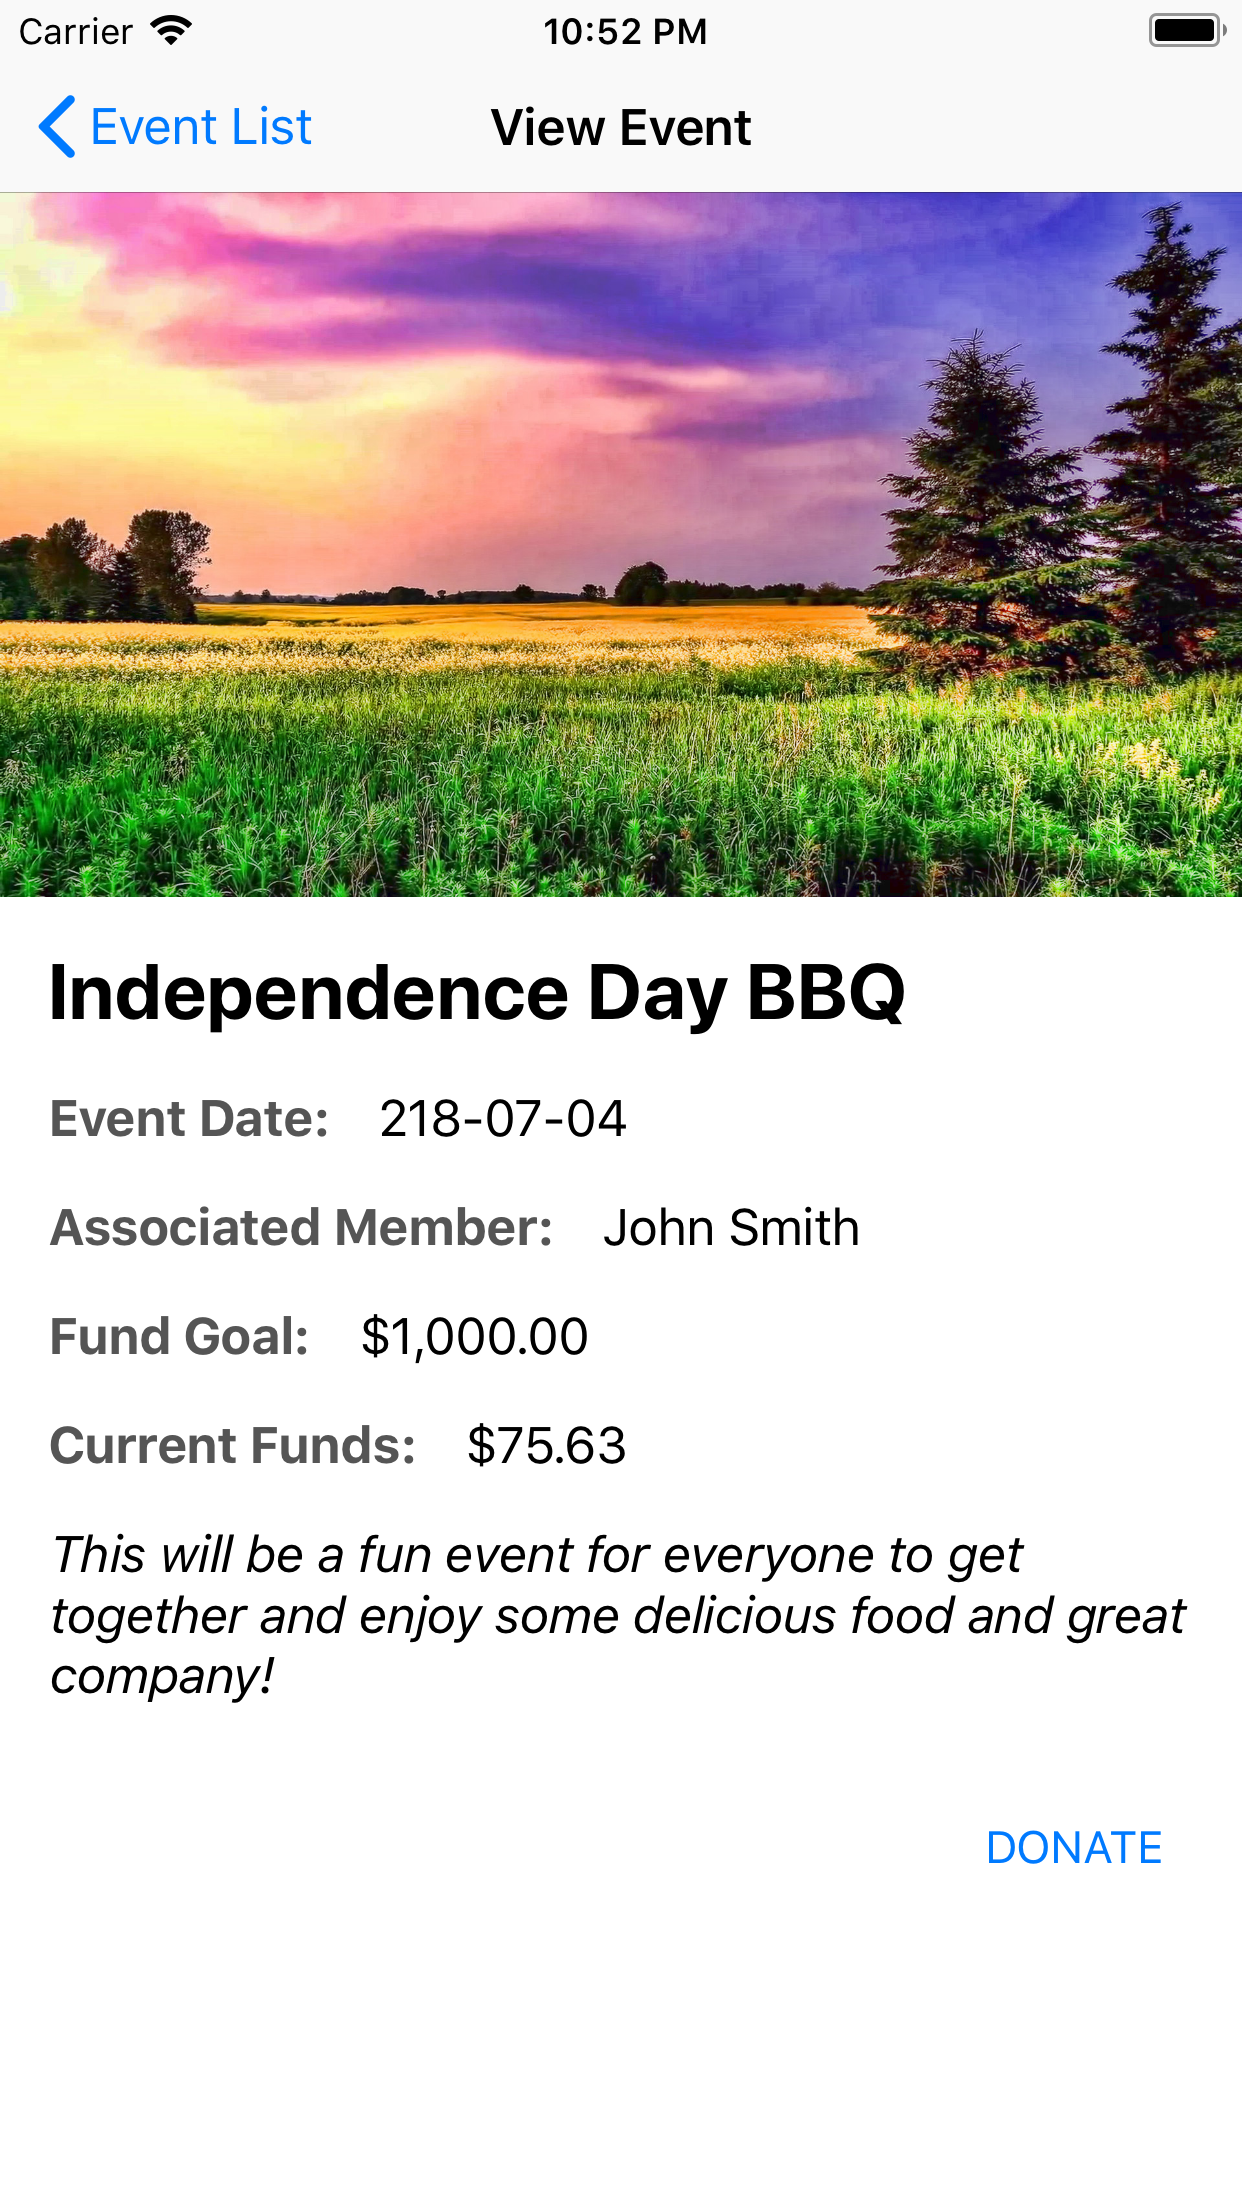
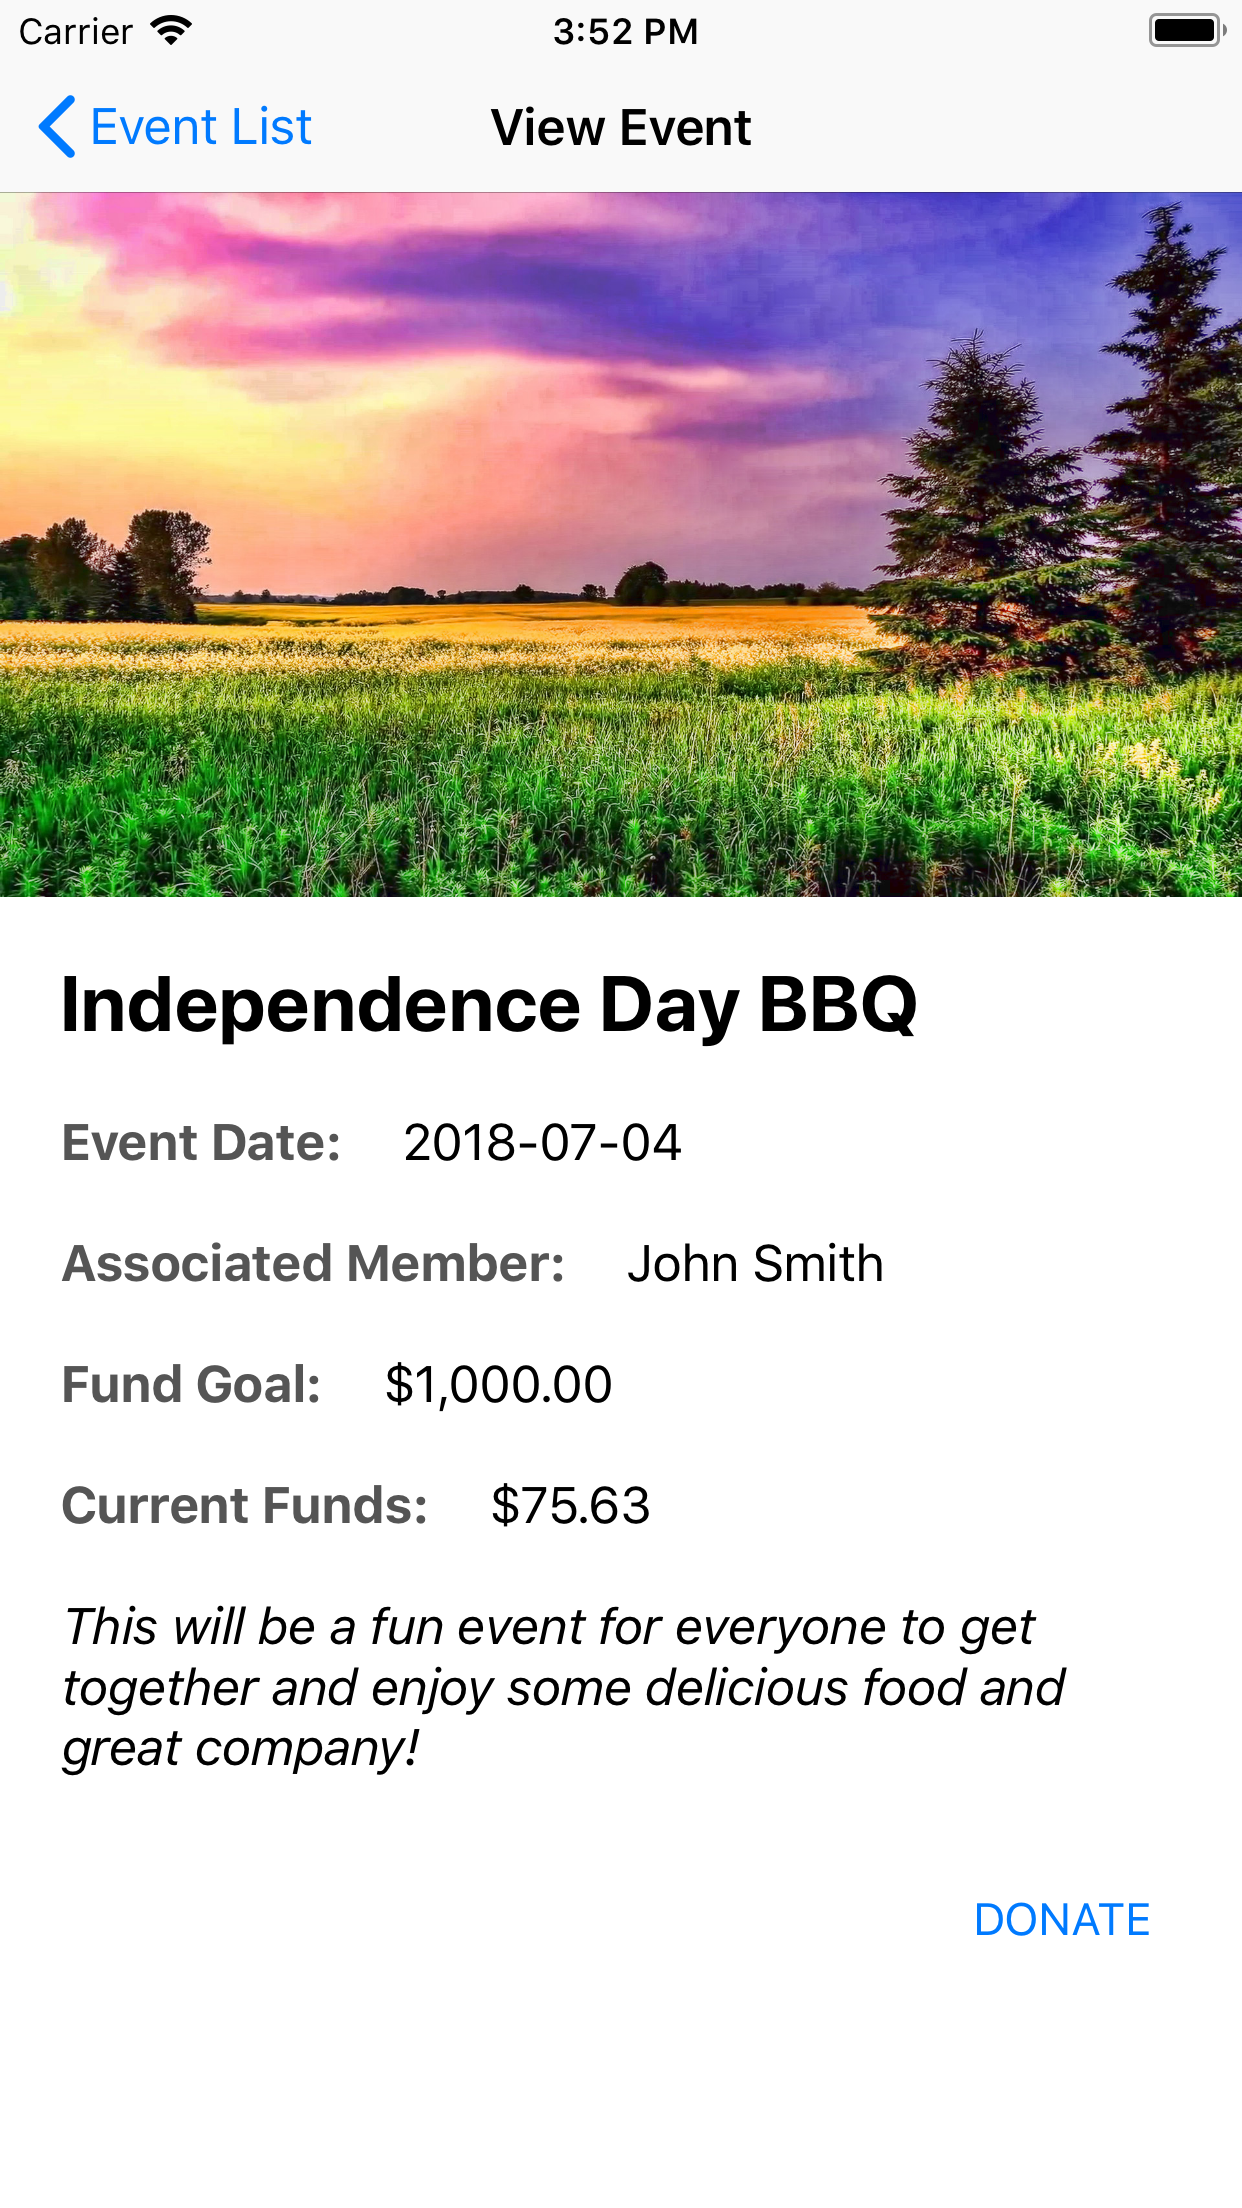
Updated View controller and Event screenshots with correct year

diff --git a/iOS App/ColonelFund/ColonelFund/DonateToEventViewController.swift b/iOS App/ColonelFund/ColonelFund/DonateToEventViewController.swift
@@ -19,7 +19,7 @@ class DonateToEventViewController: UIViewController {
     @IBOutlet weak var eventDonationTextField: UITextField!
     
     var tempTitleText: String = ""
-    var tempDateText: String = "218-07-04"
+    var tempDateText: String = "2018-07-04"
     var tempMemberText: String = "John Smith"
     var tempFundGoalText: String = "$1,000.00"
     var tempCurrentFundsText: String = "$75.63"
